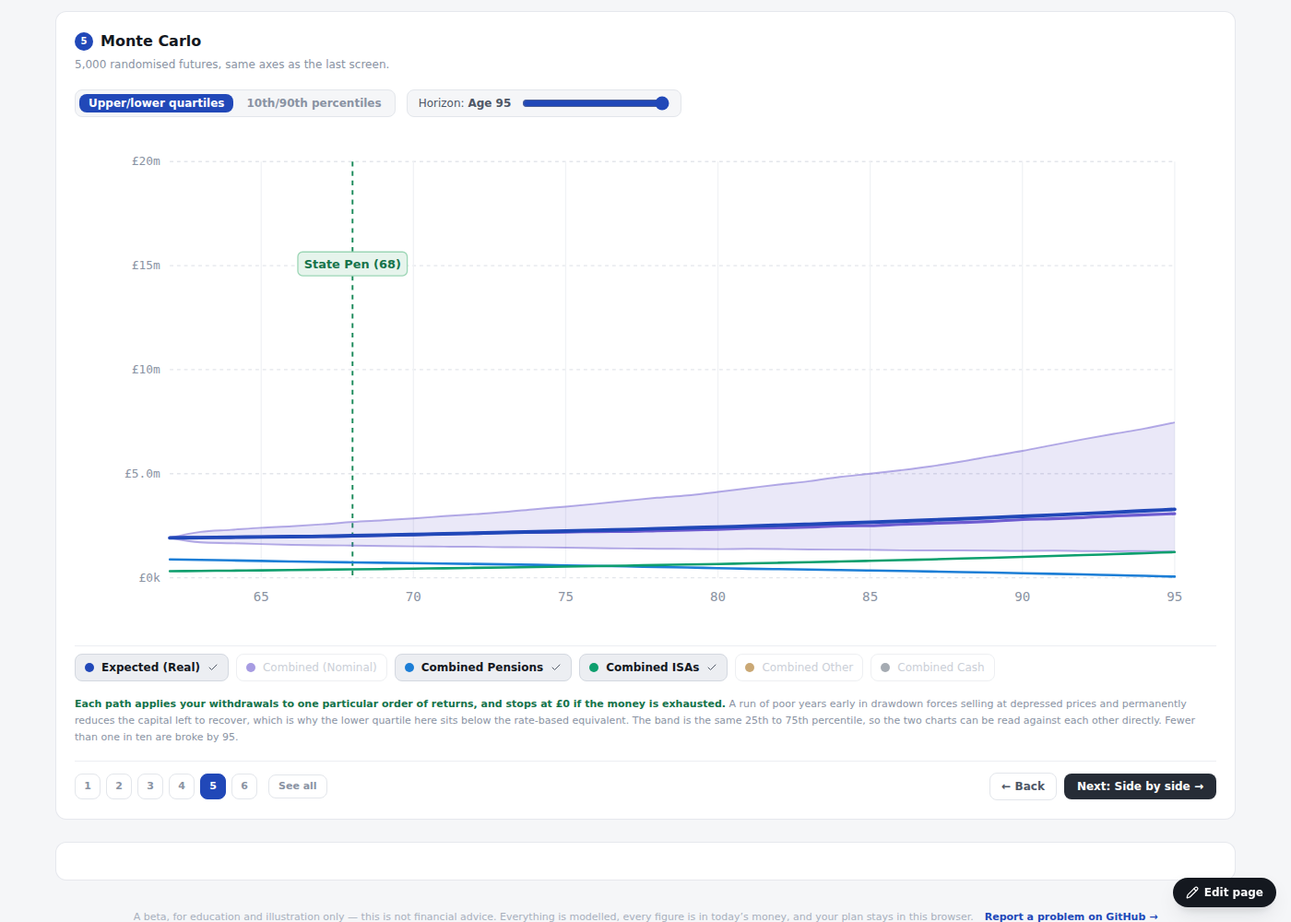
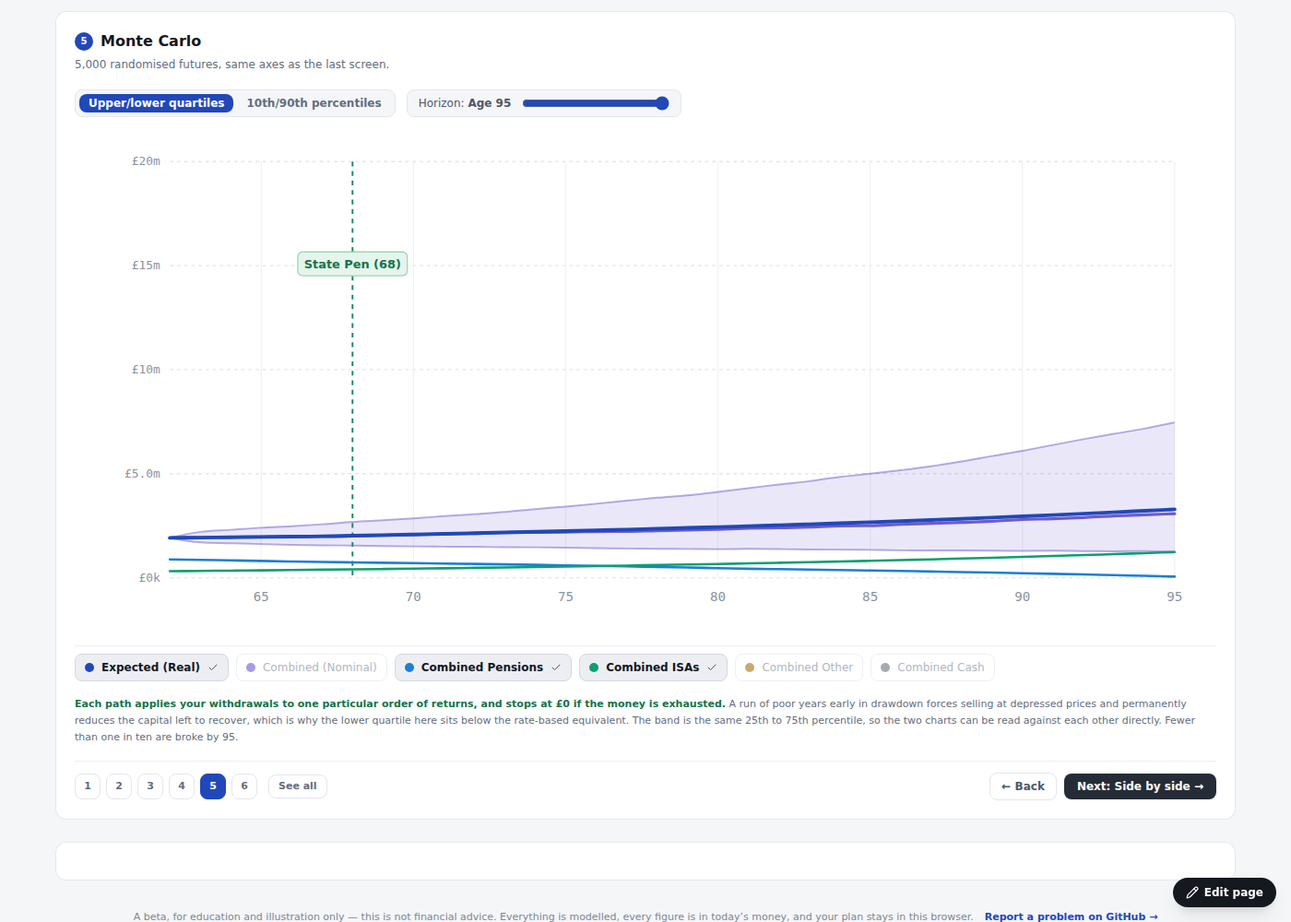
Regression-test the restyle, and fix the four things it caught
A restyle's characteristic failure is text the colour of what is behind it,
and none of the existing harnesses could see that: they assert behaviour -
a card applies, a band draws, a worker answers. restyle-regression-ui.cjs
walks all eight tabs in both themes at two widths and asserts four things
instead: every run of text clears 3:1 against the background actually
behind it (walking up the ancestors, since a transparent element inherits
what it sits on), nothing scrolls sideways at 390px, no tab errors, and
every tab still renders its own content so a panel that throws cannot pass
by being blank. It also drives the theme control itself.

It found 32 failures across four real bugs, all of them mine:

1. THE ACCENT WAS DOING TWO JOBS. `blue-600` has to be LIGHT in dark so a
   link reads on a dark ground - which left seventeen primary buttons
   showing white text on a light blue fill at 2.7:1. Fill and text are
   separate jobs, so they are separate tokens now: `accent`/`accent-hover`
   stay dark enough for white in either theme, and `blue-*` remains the
   text accent. Nine more white-on-light-fill combinations had the same
   shape - a selected state reaching for whichever hue was nearby - and
   selection now takes the same pair as every other selected control.

2. FOUR -950 SHADES WERE NOT INVERTED. Every one of them is used as text,
   so in dark they have to be the lightest tint; blue, indigo, purple and
[…]

diff --git a/src/App.jsx b/src/App.jsx
@@ -6752,7 +6752,7 @@ function WrapperStrategyTournament({ plan, ctx, seed, scenarios = [], activeScen
               const on = (entrantIds || []).includes(s.id);
               return (
                 <button key={s.id} type="button" onClick={() => toggleEntrant(s.id)}
-                  className={`px-2.5 py-1 rounded-lg text-[11px] font-semibold border transition-colors cursor-pointer ${on ? 'bg-indigo-600 text-white border-indigo-600' : 'bg-surface text-slate-700 border-slate-300 hover:bg-slate-100'}`}>
+                  className={`px-2.5 py-1 rounded-lg text-[11px] font-semibold border transition-colors cursor-pointer ${on ? 'bg-accent text-onaccent border-indigo-600' : 'bg-surface text-slate-700 border-slate-300 hover:bg-slate-100'}`}>
                   {on ? '✓ ' : '+ '}{s.name}
                 </button>
               );
@@ -8723,7 +8723,7 @@ ${t.rows.map(r => `<tr class="${r.recommended ? 'total' : ''}"><td>${r.amt > 0 ?
     <div className="flex items-start justify-between gap-3">
       <div>
         <h2 className="text-base font-semibold text-slate-900 flex items-center gap-2">
-          <span className="inline-flex items-center justify-center w-5 h-5 rounded-full bg-blue-600 text-white text-[10px] font-black shrink-0">{n}</span>
+          <span className="inline-flex items-center justify-center w-5 h-5 rounded-full bg-accent text-onaccent text-[10px] font-black shrink-0">{n}</span>
           {title}
         </h2>
         <span className="text-xs text-slate-500">{sub}</span>
@@ -8740,7 +8740,7 @@ ${t.rows.map(r => `<tr class="${r.recommended ? 'total' : ''}"><td>${r.amt > 0 ?
     <div className="flex items-center gap-1 bg-slate-50 border border-slate-200 px-1 py-1 rounded-lg text-xs">
       {['quartile', 'decile'].map(k => (
         <button key={k} type="button" onClick={() => setBandMode(k)} title={`Draw both charts at the ${BAND_QUANTILES[k].lowPct} and ${BAND_QUANTILES[k].highPct} percentile`}
-          className={`px-2.5 py-0.5 rounded-lg font-semibold transition-all cursor-pointer ${bandMode === k ? 'bg-blue-600 text-white' : 'text-slate-500 hover:text-slate-900'}`}>{BAND_QUANTILES[k].button}</button>
+          className={`px-2.5 py-0.5 rounded-lg font-semibold transition-all cursor-pointer ${bandMode === k ? 'bg-accent text-onaccent' : 'text-slate-500 hover:text-slate-900'}`}>{BAND_QUANTILES[k].button}</button>
       ))}
     </div>
   );
@@ -8828,7 +8828,7 @@ ${t.rows.map(r => `<tr class="${r.recommended ? 'total' : ''}"><td>${r.amt > 0 ?
       <div className="flex items-center gap-1.5">
         {ESTATE_STEPS.map(st => (
           <button key={st.n} type="button" onClick={() => { setEstateSeeAll(false); setEstateStep(st.n); }} title={st.name}
-            className={`px-2.5 h-7 rounded-lg text-[11px] font-bold transition-all cursor-pointer border ${!estateSeeAll && estateStep === st.n ? 'bg-purple-600 text-white border-purple-600' : 'bg-surface border-slate-200 text-slate-500 hover:text-slate-900 hover:border-slate-300'}`}>
+            className={`px-2.5 h-7 rounded-lg text-[11px] font-bold transition-all cursor-pointer border ${!estateSeeAll && estateStep === st.n ? 'bg-accent text-onaccent border-purple-600' : 'bg-surface border-slate-200 text-slate-500 hover:text-slate-900 hover:border-slate-300'}`}>
             <span className="sm:hidden">{st.n}</span><span className="hidden sm:inline">{st.n}. {st.name}</span>
           </button>
         ))}
@@ -8843,7 +8843,7 @@ ${t.rows.map(r => `<tr class="${r.recommended ? 'total' : ''}"><td>${r.amt > 0 ?
             className="px-3 py-1.5 rounded-lg text-xs font-semibold border border-slate-200 bg-surface text-slate-600 hover:text-slate-900 cursor-pointer disabled:opacity-40 disabled:cursor-not-allowed">&larr; Back</button>
           {n < 4 && (
             <button type="button" onClick={() => { setEstateStep(n + 1); scrollTo(document.querySelector('[data-estate-deck]')); }}
-              className="px-3.5 py-1.5 rounded-lg text-xs font-bold bg-purple-600 text-white hover:bg-purple-700 cursor-pointer">
+              className="px-3.5 py-1.5 rounded-lg text-xs font-bold bg-accent text-onaccent hover:bg-purple-700 cursor-pointer">
               Next: {ESTATE_STEPS[n].name} &rarr;
             </button>
           )}
@@ -8857,7 +8857,7 @@ ${t.rows.map(r => `<tr class="${r.recommended ? 'total' : ''}"><td>${r.amt > 0 ?
       <div className="flex items-center gap-1.5">
         {PROJECTION_SLIDES.map(s => (
           <button key={s.n} type="button" onClick={() => { setSeeAll(false); setSlide(s.n); }} title={s.name}
-            className={`w-7 h-7 rounded-lg text-[11px] font-bold transition-all cursor-pointer border ${!seeAll && slide === s.n ? 'bg-blue-600 text-white border-blue-600' : 'bg-surface border-slate-200 text-slate-500 hover:text-slate-900 hover:border-slate-300'}`}>{s.n}</button>
+            className={`w-7 h-7 rounded-lg text-[11px] font-bold transition-all cursor-pointer border ${!seeAll && slide === s.n ? 'bg-accent text-onaccent border-blue-600' : 'bg-surface border-slate-200 text-slate-500 hover:text-slate-900 hover:border-slate-300'}`}>{s.n}</button>
         ))}
         <button type="button" onClick={() => setSeeAll(!seeAll)}
           className={`ml-1.5 px-2.5 py-1 rounded-lg text-[11px] font-bold transition-all cursor-pointer border ${seeAll ? 'bg-slate-800 text-white border-slate-800' : 'bg-surface border-slate-200 text-slate-500 hover:text-slate-900'}`}>
@@ -8951,7 +8951,7 @@ ${t.rows.map(r => `<tr class="${r.recommended ? 'total' : ''}"><td>${r.amt > 0 ?
             const atCap = !run && selectedCompare.length >= MAX_COMPARE;
             return (
               <button key={sc.id} type="button" disabled={atCap} onClick={() => toggleCompare(sc.id)} title={atCap ? `Up to ${MAX_COMPARE} scenarios at once` : sc.name}
-                className={`px-2.5 py-1.5 rounded-lg text-xs font-medium flex items-center gap-2 transition-all border max-w-[14rem] ${run ? 'bg-slate-100 border-slate-300 text-slate-900 font-semibold cursor-pointer' : atCap ? 'bg-surface border-slate-200 text-slate-300 cursor-not-allowed' : 'bg-surface border-slate-200 text-slate-400 opacity-70 cursor-pointer hover:opacity-100'}`}>
+                className={`px-2.5 py-1.5 rounded-lg text-xs font-medium flex items-center gap-2 transition-all border max-w-[14rem] ${run ? 'bg-slate-100 border-slate-300 text-slate-900 font-semibold cursor-pointer' : atCap ? 'bg-surface border-slate-200 text-slate-400 cursor-not-allowed' : 'bg-surface border-slate-200 text-slate-400 opacity-70 cursor-pointer hover:opacity-100'}`}>
                 <span className="w-3.5 h-0 border-t-2 border-dashed shrink-0" style={{ borderColor: run ? run.tone : 'currentColor' }} />
                 <span className="truncate">{sc.name}</span>{run && <Check className="w-3 h-3 text-slate-600 shrink-0" />}
               </button>
@@ -8988,7 +8988,7 @@ ${t.rows.map(r => `<tr class="${r.recommended ? 'total' : ''}"><td>${r.amt > 0 ?
       <div className="flex flex-col sm:flex-row sm:items-center justify-between gap-3 pt-3 pb-3 border-y border-slate-100">
         <div><h4 className="text-sm font-semibold text-slate-800">Wrapper sandbox controls</h4><span className="text-[11px] text-slate-500">Adjust retirement ages and individual wrappers below, or reset back to your baseline plan inputs.</span></div>
         <div className="flex items-center gap-2 flex-wrap">
-          <button onClick={handleResetSandbox} disabled={!isSandboxModified} className={`px-3 py-1.5 rounded-lg text-xs font-semibold flex items-center gap-1.5 transition-all border ${isSandboxModified ? 'bg-slate-100 hover:bg-slate-200 text-slate-700 border-slate-300 cursor-pointer' : 'bg-slate-50 text-slate-300 border-slate-200 cursor-not-allowed'}`}><RotateCcw className="w-3.5 h-3.5" /> Reset Sandbox</button>
+          <button onClick={handleResetSandbox} disabled={!isSandboxModified} className={`px-3 py-1.5 rounded-lg text-xs font-semibold flex items-center gap-1.5 transition-all border ${isSandboxModified ? 'bg-slate-100 hover:bg-slate-200 text-slate-700 border-slate-300 cursor-pointer' : 'bg-slate-50 text-slate-400 border-slate-200 cursor-not-allowed'}`}><RotateCcw className="w-3.5 h-3.5" /> Reset Sandbox</button>
           <button onClick={handleApplySandboxToPlan} disabled={!isSandboxModified} className={`px-3.5 py-1.5 rounded-lg text-xs font-bold flex items-center gap-1.5 transition-all ${isSandboxModified ? 'bg-amber-700 hover:bg-amber-800 hover:to-amber-700 text-white cursor-pointer active:scale-95' : 'bg-slate-100 text-slate-400 border border-slate-200 cursor-not-allowed'}`}><Check className="w-3.5 h-3.5" /> Apply to Plan Inputs</button>
         </div>
       </div>
@@ -9136,7 +9136,7 @@ ${t.rows.map(r => `<tr class="${r.recommended ? 'total' : ''}"><td>${r.amt > 0 ?
           </div>
           <div className="flex items-center gap-2 flex-wrap ml-auto">
             <input type="text" placeholder="Scenario name (optional)" value={scenarioNameInput} onChange={(e) => setScenarioNameInput(e.target.value)} onKeyDown={(e) => { if (e.key === 'Enter') handleSaveScenario(); }} className="p-1.5 px-3 bg-slate-50 border border-slate-300 rounded-lg text-xs font-medium text-slate-900 placeholder:text-slate-400 focus:bg-surface focus:outline-none focus:ring-2 focus:ring-blue-500 w-48 sm:w-56" />
-            <button onClick={handleSaveScenario} className="px-3 py-1.5 bg-blue-600 hover:bg-blue-700 text-white rounded-lg text-xs font-bold flex items-center gap-1.5 transition-all cursor-pointer active:scale-95"><Save className="w-3.5 h-3.5" /> Save</button>
+            <button onClick={handleSaveScenario} className="px-3 py-1.5 bg-accent hover:bg-accent-hover text-onaccent rounded-lg text-xs font-bold flex items-center gap-1.5 transition-all cursor-pointer active:scale-95"><Save className="w-3.5 h-3.5" /> Save</button>
             <button onClick={handleSaveAsNewScenario} className="px-3 py-1.5 bg-slate-100 hover:bg-slate-200 text-slate-700 rounded-lg text-xs font-semibold flex items-center gap-1.5 transition-all border border-slate-200 cursor-pointer"><Plus className="w-3.5 h-3.5 text-slate-600" /> Save as new scenario</button>
             {saveSuccessMsg && <span className="text-xs font-bold text-emerald-700 flex items-center gap-1 bg-emerald-50 px-2 py-1 rounded-lg border border-emerald-200"><Check className="w-3 h-3 text-emerald-600" /> {saveSuccessMsg}</span>}
           </div>
@@ -9164,7 +9164,7 @@ ${t.rows.map(r => `<tr class="${r.recommended ? 'total' : ''}"><td>${r.amt > 0 ?
                 </p>
                 <div className="flex flex-wrap items-center gap-2 pt-1">
                   <button type="button" onClick={() => setActiveTab('inputs')}
-                    className="px-4 py-2 bg-blue-600 hover:bg-blue-700 text-white rounded-lg text-xs font-bold flex items-center gap-1.5 transition-all cursor-pointer active:scale-95">
+                    className="px-4 py-2 bg-accent hover:bg-accent-hover text-onaccent rounded-lg text-xs font-bold flex items-center gap-1.5 transition-all cursor-pointer active:scale-95">
                     <Sliders className="w-3.5 h-3.5" /> {planStarted ? 'Back to Plan Inputs' : 'Start with Plan Inputs'}
                   </button>
                   <button type="button" onClick={() => setActiveTab('docs')}
@@ -9304,7 +9304,7 @@ ${t.rows.map(r => `<tr class="${r.recommended ? 'total' : ''}"><td>${r.amt > 0 ?
               <div className="pt-3 border-t border-slate-100">
                 <div className="flex flex-wrap items-center justify-between gap-2 mb-2">
                   <span className="text-sm font-semibold text-slate-700">{isCouple ? 'Joint net living spend' : 'Net living spend'} by age (optional)</span>
-                  <button onClick={addSpendBand} className="px-2.5 py-1 bg-blue-600 hover:bg-blue-700 text-white rounded-lg text-xs font-bold flex items-center gap-1 cursor-pointer"><Plus className="w-3.5 h-3.5" /> Add band</button>
+                  <button onClick={addSpendBand} className="px-2.5 py-1 bg-accent hover:bg-accent-hover text-onaccent rounded-lg text-xs font-bold flex items-center gap-1 cursor-pointer"><Plus className="w-3.5 h-3.5" /> Add band</button>
                 </div>
                 <p className="text-[11px] text-slate-500 mb-2 max-w-3xl">
                   Set what a stretch of years actually costs, in today's money, instead of one figure for the whole
@@ -9487,7 +9487,7 @@ ${t.rows.map(r => `<tr class="${r.recommended ? 'total' : ''}"><td>${r.amt > 0 ?
                   </ul>
                   <span className="text-[11px] text-slate-500 mt-1 block">With no relevant earnings the pension limit is {formatGBP(P.pensionNoEarningsLimit)}/yr.</span>
                 </div>
-                <button onClick={addOtherIncome} className="px-2.5 py-1 bg-blue-600 hover:bg-blue-700 text-white rounded-lg text-xs font-bold flex items-center gap-1 cursor-pointer"><Plus className="w-3.5 h-3.5" /> Add stream</button>
+                <button onClick={addOtherIncome} className="px-2.5 py-1 bg-accent hover:bg-accent-hover text-onaccent rounded-lg text-xs font-bold flex items-center gap-1 cursor-pointer"><Plus className="w-3.5 h-3.5" /> Add stream</button>
               </div>
               {(plan?.otherIncomes || []).length === 0 ? (
                 <div className="text-xs text-slate-400 p-3 bg-slate-50 border border-slate-200 rounded-lg">No additional income streams registered.</div>
@@ -9681,11 +9681,11 @@ ${t.rows.map(r => `<tr class="${r.recommended ? 'total' : ''}"><td>${r.amt > 0 ?
                 </div>
                 <div className="shrink-0">
                   <button type="button" onClick={handleFindBestPolicy} disabled={isPolicySearching || !policySweepReady}
-                    className="px-3.5 py-2 bg-blue-600 hover:bg-blue-700 text-white rounded-lg text-xs font-bold flex items-center gap-2 transition-all cursor-pointer active:scale-95 disabled:opacity-50 disabled:cursor-not-allowed">
+                    className="px-3.5 py-2 bg-accent hover:bg-accent-hover text-onaccent rounded-lg text-xs font-bold flex items-center gap-2 transition-all cursor-pointer active:scale-95 disabled:opacity-50 disabled:cursor-not-allowed">
                     <Zap className="w-3.5 h-3.5 shrink-0 text-amber-300 fill-amber-300" />
                     {isPolicySearching ? 'Searching…' : (
                       <span className="text-left leading-tight">Auto-pick best policy
-                        <span className="block text-[10px] font-semibold text-blue-100/90">based on my priorities</span>
+                        <span className="block text-[10px] font-semibold text-onaccent/80">based on my priorities</span>
                       </span>
                     )}
                   </button>
@@ -9747,10 +9747,10 @@ ${t.rows.map(r => `<tr class="${r.recommended ? 'total' : ''}"><td>${r.amt > 0 ?
                           onPointerMove={movePriorityDrag}
                           onPointerUp={endPriorityDrag}
                           onPointerCancel={cancelPriorityDrag}
-                          className="shrink-0 mt-0.5 -m-1 p-1 touch-none cursor-grab active:cursor-grabbing text-slate-300 hover:text-slate-500">
+                          className="shrink-0 mt-0.5 -m-1 p-1 touch-none cursor-grab active:cursor-grabbing text-slate-400 hover:text-slate-500">
                           <GripVertical className="w-3.5 h-3.5" />
                         </span>
-                        <span className={`shrink-0 w-5 h-5 rounded-full grid place-items-center font-bold text-[10px] ${i === 0 ? 'bg-blue-600 text-white' : 'bg-slate-200 text-slate-600'}`}>{i + 1}</span>
+                        <span className={`shrink-0 w-5 h-5 rounded-full grid place-items-center font-bold text-[10px] ${i === 0 ? 'bg-accent text-onaccent' : 'bg-slate-200 text-slate-600'}`}>{i + 1}</span>
                         <div className="min-w-0 flex-1">
                           <div className={`font-bold ${i === 0 ? 'text-blue-900' : 'text-slate-700'}`}>{m.label}</div>
                           <div className="text-[10px] text-slate-500 leading-snug">{m.why}</div>
@@ -9940,7 +9940,7 @@ ${t.rows.map(r => `<tr class="${r.recommended ? 'total' : ''}"><td>${r.amt > 0 ?
                             )}
                           </div>
                           <button type="button" onClick={() => chooseTradeoff(card)} disabled={active}
-                            className={`shrink-0 px-2.5 py-1.5 rounded-lg text-[11px] font-bold transition-all ${active ? 'bg-blue-600 text-white cursor-default' : 'bg-slate-100 text-blue-700 hover:bg-blue-100 cursor-pointer active:scale-95'}`}>
+                            className={`shrink-0 px-2.5 py-1.5 rounded-lg text-[11px] font-bold transition-all ${active ? 'bg-accent text-onaccent cursor-default' : 'bg-slate-100 text-blue-700 hover:bg-blue-100 cursor-pointer active:scale-95'}`}>
                             {active ? 'Applied' : 'Use this instead'}
                           </button>
                         </div>
@@ -10070,7 +10070,7 @@ ${t.rows.map(r => `<tr class="${r.recommended ? 'total' : ''}"><td>${r.amt > 0 ?
                   <h3 className="text-sm font-semibold text-slate-900">Asset allocations, return matrix &amp; volatilities (σ)</h3>
                   <span className="text-[11px] text-slate-500">Expected real return is treated as the median (geometric) annual rate; Monte Carlo paths are log-normal around it with the stated σ, one market factor for all wrappers. The lucky and unlucky columns are calculated from the expected rate, σ, forecast uncertainty and your {ctx.totalYears}-year horizon, so they are not editable.</span>
                 </div>
-                <button onClick={() => setIsEditingRisk(!isEditingRisk)} className={`px-3 py-1.5 rounded-lg text-xs font-semibold flex items-center gap-1.5 transition-all cursor-pointer border ${isEditingRisk ? 'bg-blue-600 text-white border-blue-600' : 'bg-slate-100 hover:bg-slate-200 text-slate-700 border-slate-200'}`}><Pencil className="w-3.5 h-3.5" />{isEditingRisk ? 'Done Editing' : 'Edit Matrix'}</button>
+                <button onClick={() => setIsEditingRisk(!isEditingRisk)} className={`px-3 py-1.5 rounded-lg text-xs font-semibold flex items-center gap-1.5 transition-all cursor-pointer border ${isEditingRisk ? 'bg-accent text-onaccent border-blue-600' : 'bg-slate-100 hover:bg-slate-200 text-slate-700 border-slate-200'}`}><Pencil className="w-3.5 h-3.5" />{isEditingRisk ? 'Done Editing' : 'Edit Matrix'}</button>
               </div>
 
               {/*
@@ -10198,7 +10198,7 @@ ${t.rows.map(r => `<tr class="${r.recommended ? 'total' : ''}"><td>${r.amt > 0 ?
                     <button type="button" onClick={handleCancelMC} className="px-3 py-1.5 rounded-lg text-xs font-bold border border-slate-300 bg-slate-100 hover:bg-slate-200 text-slate-700 cursor-pointer">Stop</button>
                   )}
                   <button onClick={handleRunAll} disabled={mcBusy}
-                    className="px-4 py-2 bg-blue-600 hover:bg-blue-700 text-white rounded-lg text-xs font-bold flex items-center gap-1.5 transition-all cursor-pointer active:scale-95 disabled:opacity-60">
+                    className="px-4 py-2 bg-accent hover:bg-accent-hover text-onaccent rounded-lg text-xs font-bold flex items-center gap-1.5 transition-all cursor-pointer active:scale-95 disabled:opacity-60">
                     <Zap className="w-3.5 h-3.5 text-amber-300 fill-amber-300" />
                     {isSimulating && !isOptimizing ? 'Testing…' : isOptimizing ? 'Solving…' : tournament.isEvaluating ? 'Comparing…' : '⚡ Run the projection'}
                   </button>
@@ -10223,7 +10223,7 @@ ${t.rows.map(r => `<tr class="${r.recommended ? 'total' : ''}"><td>${r.amt > 0 ?
                 <div className="bg-surface border border-slate-200/90 rounded-xl p-4 flex flex-wrap items-center gap-2">
                   <span className="text-xs text-slate-500 font-semibold">Whose money:</span>
                   {['Combined', 'Myself', 'Partner'].map(pv => (
-                    <button key={pv} onClick={() => setPlan(prev => ({ ...prev, activeProfileView: pv }))} className={`px-3 py-1 rounded-lg text-xs font-bold transition-all cursor-pointer ${plan?.activeProfileView === pv ? 'bg-blue-600 text-white' : 'bg-slate-100 text-slate-600 hover:text-slate-900'}`}>{pv}</button>
+                    <button key={pv} onClick={() => setPlan(prev => ({ ...prev, activeProfileView: pv }))} className={`px-3 py-1 rounded-lg text-xs font-bold transition-all cursor-pointer ${plan?.activeProfileView === pv ? 'bg-accent text-onaccent' : 'bg-slate-100 text-slate-600 hover:text-slate-900'}`}>{pv}</button>
                   ))}
                 </div>
               )}
@@ -10466,7 +10466,7 @@ ${t.rows.map(r => `<tr class="${r.recommended ? 'total' : ''}"><td>${r.amt > 0 ?
                   const atCap = !run && selectedCompare.length >= MAX_COMPARE;
                   return (
                     <button key={s.id} type="button" disabled={atCap} onClick={() => toggleCompare(s.id)} title={atCap ? `Up to ${MAX_COMPARE} at once` : s.name}
-                      className={`px-2.5 py-1.5 rounded-lg text-xs font-medium flex items-center gap-2 transition-all border max-w-[16rem] ${run ? 'bg-slate-100 border-slate-300 text-slate-900 font-semibold cursor-pointer' : atCap ? 'bg-surface border-slate-200 text-slate-300 cursor-not-allowed' : 'bg-surface border-slate-200 text-slate-500 opacity-70 cursor-pointer hover:opacity-100'}`}>
+                      className={`px-2.5 py-1.5 rounded-lg text-xs font-medium flex items-center gap-2 transition-all border max-w-[16rem] ${run ? 'bg-slate-100 border-slate-300 text-slate-900 font-semibold cursor-pointer' : atCap ? 'bg-surface border-slate-200 text-slate-400 cursor-not-allowed' : 'bg-surface border-slate-200 text-slate-500 opacity-70 cursor-pointer hover:opacity-100'}`}>
                       <span className="w-2.5 h-2.5 rounded-full shrink-0 border" style={{ backgroundColor: run ? run.tone : 'transparent', borderColor: run ? run.tone : 'currentColor' }} />
                       <span className="truncate">{s.name}</span>{run && <Check className="w-3 h-3 text-slate-600 shrink-0" />}
                     </button>
@@ -10514,7 +10514,7 @@ ${t.rows.map(r => `<tr class="${r.recommended ? 'total' : ''}"><td>${r.amt > 0 ?
                               <td className="p-2 text-slate-700">{r.retireAge}</td>
                               <td className="p-2 text-slate-700">{formatGBP(r.retirePot)}</td>
                               <td className="p-2 font-bold text-blue-700">{formatGBP(r.terminal)}</td>
-                              <td className={`p-2 font-semibold ${r.delta === null ? 'text-slate-300' : r.delta > 0 ? 'text-emerald-700' : r.delta < 0 ? 'text-rose-700' : 'text-slate-500'}`}>
+                              <td className={`p-2 font-semibold ${r.delta === null ? 'text-slate-400' : r.delta > 0 ? 'text-emerald-700' : r.delta < 0 ? 'text-rose-700' : 'text-slate-500'}`}>
                                 {r.delta === null ? '—' : `${r.delta > 0 ? '+' : r.delta < 0 ? '−' : ''}${formatGBP(Math.abs(r.delta))}`}
                               </td>
                               <td className="p-2 text-slate-600">{formatGBP(r.lifetimeTax)}</td>
@@ -10541,7 +10541,7 @@ ${t.rows.map(r => `<tr class="${r.recommended ? 'total' : ''}"><td>${r.amt > 0 ?
                   <div className="bg-surface border border-slate-200/90 p-4 rounded-xl flex flex-wrap items-center justify-between gap-3">
                     <span className="text-[11px] text-slate-500">Changed something? Run it again and the five steps come back with every figure refreshed.</span>
                     <button type="button" onClick={() => handleRunAll({ cascade: true })} disabled={mcBusy}
-                      className="px-4 py-2 bg-blue-600 hover:bg-blue-700 text-white rounded-lg text-xs font-bold flex items-center gap-1.5 transition-all cursor-pointer active:scale-95 disabled:opacity-60">
+                      className="px-4 py-2 bg-accent hover:bg-accent-hover text-onaccent rounded-lg text-xs font-bold flex items-center gap-1.5 transition-all cursor-pointer active:scale-95 disabled:opacity-60">
                       <RotateCcw className="w-3.5 h-3.5" /> {mcBusy ? 'Running…' : 'Rerun projections'}
                     </button>
                   </div>
@@ -10749,7 +10749,7 @@ ${t.rows.map(r => `<tr class="${r.recommended ? 'total' : ''}"><td>${r.amt > 0 ?
                                           <tr key={r.source}>
                                             <td className="py-1 pr-2 text-slate-700">{r.source}</td>
                                             <td className="py-1 pr-2 text-right font-mono text-slate-500">{formatGBP(r.balance)}</td>
-                                            <td className={`py-1 pr-2 text-right font-mono font-bold ${r.taken > 0 ? 'text-purple-800' : 'text-slate-300'}`}>{r.taken > 0 ? formatGBP(r.taken) : '—'}</td>
+                                            <td className={`py-1 pr-2 text-right font-mono font-bold ${r.taken > 0 ? 'text-purple-800' : 'text-slate-400'}`}>{r.taken > 0 ? formatGBP(r.taken) : '—'}</td>
                                             <td className="py-1 text-right font-mono text-slate-600">{formatGBP(r.left)}</td>
                                           </tr>
                                         ))}
@@ -10863,7 +10863,7 @@ ${t.rows.map(r => `<tr class="${r.recommended ? 'total' : ''}"><td>${r.amt > 0 ?
                         <button type="button" onClick={() => toggleEstateCard('workings')} aria-expanded={estateOpen('workings')}
                           data-fold-toggle="workings" className="w-full text-left cursor-pointer bg-transparent border-0 p-0 m-0 block">
                           <h3 className="text-sm font-semibold text-slate-900 flex items-center gap-2">
-                            <span className="shrink-0 w-4 h-4 rounded-full bg-purple-600 text-white text-[9px] font-bold flex items-center justify-center">=</span>
+                            <span className="shrink-0 w-4 h-4 rounded-full bg-accent text-onaccent text-[9px] font-bold flex items-center justify-center">=</span>
                             <span className="flex-1">What that comes to, if you die at {estatePlan.deathAge}</span>
                             {/* the answer itself stays on the folded header: it is the one figure worth
                                 keeping in view, and hiding it would make folding cost something */}
@@ -10886,7 +10886,7 @@ ${t.rows.map(r => `<tr class="${r.recommended ? 'total' : ''}"><td>${r.amt > 0 ?
                                   <td className={`py-1.5 pr-3 font-sans ${r.kind === 'total' ? 'text-slate-900' : r.kind === 'note' ? 'text-slate-500' : 'text-slate-700'}`}>
                                     {r.label}{r.note && <span className="block text-[10px] text-slate-400">{r.note}</span>}
                                   </td>
-                                  <td className={`py-1.5 pr-3 text-right ${r.kind === 'note' ? 'text-slate-300' : r.amount < 0 ? 'text-emerald-700' : 'text-slate-700'}`}>
+                                  <td className={`py-1.5 pr-3 text-right ${r.kind === 'note' ? 'text-slate-400' : r.amount < 0 ? 'text-emerald-700' : 'text-slate-700'}`}>
                                     {r.kind === 'note' ? '' : (r.amount < 0 ? '−' : '') + formatGBP(Math.abs(r.amount))}
                                   </td>
                                   <td className={`py-1.5 text-right ${r.kind === 'total' ? 'text-purple-700 font-bold' : 'text-slate-400'}`}>
@@ -11156,7 +11156,7 @@ ${t.rows.map(r => `<tr class="${r.recommended ? 'total' : ''}"><td>${r.amt > 0 ?
                     */}
                   <div className="flex flex-wrap items-center gap-3 pt-1">
                     <button type="button" onClick={openEstateReport} data-estate-report
-                      className="px-3 py-1.5 bg-emerald-600 hover:bg-emerald-700 text-white rounded-lg text-xs font-bold flex items-center gap-1.5 cursor-pointer">
+                      className="px-3 py-1.5 bg-emerald-600 hover:bg-emerald-700 text-white dark:text-emerald-50 rounded-lg text-xs font-bold flex items-center gap-1.5 cursor-pointer">
                       <Download className="w-3.5 h-3.5" /> Open as a report
                     </button>
                     <span className="text-[10px] text-slate-400">{estatePlan.runs} projections were run to find this. The report opens in a new tab as a single page you can print, save or send on.</span>
@@ -11857,7 +11857,7 @@ ${t.rows.map(r => `<tr class="${r.recommended ? 'total' : ''}"><td>${r.amt > 0 ?
                                 {r.label}
                                 {r.note && <span className="block text-[10px] text-slate-400">{r.note}</span>}
                               </td>
-                              <td className={`py-1.5 pr-3 text-right ${r.kind === 'note' ? 'text-slate-300' : r.amount < 0 ? 'text-emerald-700' : r.kind === 'total' || r.kind === 'rate' ? 'text-slate-900' : 'text-slate-700'}`}>
+                              <td className={`py-1.5 pr-3 text-right ${r.kind === 'note' ? 'text-slate-400' : r.amount < 0 ? 'text-emerald-700' : r.kind === 'total' || r.kind === 'rate' ? 'text-slate-900' : 'text-slate-700'}`}>
                                 {r.kind === 'note' ? '' : (r.amount < 0 ? '−' : '') + formatGBP(Math.abs(r.amount))}
                               </td>
                               <td className={`py-1.5 text-right ${r.kind === 'total' ? 'text-purple-700 font-bold' : 'text-slate-400'}`}>
@@ -11922,9 +11922,9 @@ ${t.rows.map(r => `<tr class="${r.recommended ? 'total' : ''}"><td>${r.amt > 0 ?
                 {HISTORICAL_PRESETS.map(p => {
                   const isValid = p.year <= maxHistoricalStartYear;
                   return (
-                    <button key={p.year} onClick={() => isValid && setSelectedHistoricalYear(p.year)} disabled={!isValid} className={`p-2.5 rounded-lg border text-left transition-all ${!isValid ? 'bg-slate-50 text-slate-300 border-slate-200/50 cursor-not-allowed opacity-50' : activeHistoricalStartYear === p.year ? 'bg-indigo-600 text-white border-indigo-600 cursor-pointer' : 'bg-slate-50 hover:bg-slate-100 text-slate-700 border-slate-200 cursor-pointer'}`}>
+                    <button key={p.year} onClick={() => isValid && setSelectedHistoricalYear(p.year)} disabled={!isValid} className={`p-2.5 rounded-lg border text-left transition-all ${!isValid ? 'bg-slate-50 text-slate-400 border-slate-200/50 cursor-not-allowed opacity-50' : activeHistoricalStartYear === p.year ? 'bg-accent text-onaccent border-accent cursor-pointer' : 'bg-slate-50 hover:bg-slate-100 text-slate-700 border-slate-200 cursor-pointer'}`}>
                       <div className="flex items-center justify-between"><span className="font-bold text-xs">{p.year}</span>{!isValid && <span className="text-[9px] text-slate-400 font-sans">Over {E.HISTORICAL_LAST_YEAR}</span>}</div>
-                      <div className={`text-[10px] leading-tight truncate mt-0.5 ${!isValid ? 'text-slate-300' : activeHistoricalStartYear === p.year ? 'text-indigo-100' : 'text-slate-500'}`}>{p.label.split('(')[0]}</div>
+                      <div className={`text-[10px] leading-tight truncate mt-0.5 ${!isValid ? 'text-slate-400' : activeHistoricalStartYear === p.year ? 'text-onaccent/80' : 'text-slate-500'}`}>{p.label.split('(')[0]}</div>
                     </button>
                   );
                 })}

diff --git a/src/Simple.jsx b/src/Simple.jsx
@@ -443,7 +443,7 @@ export default function Simple() {
             className={`${subCls} w-full min-w-0 text-right tabular-nums tabular-nums px-1 ${pctKey ? 'rounded-r-none border-r-0' : ''}`} />
           {pctKey && (
             <button type="button" onClick={() => set(pctKey, !s[pctKey])} title={isPct ? 'a % of salary' : 'pounds a year'}
-              className={`shrink-0 px-1 rounded-md rounded-l-none border text-[10px] font-bold cursor-pointer ${isPct ? 'bg-blue-600 text-white border-blue-600' : 'bg-slate-50 text-slate-500 border-slate-200 hover:text-slate-900'}`}>
+              className={`shrink-0 px-1 rounded-md rounded-l-none border text-[10px] font-bold cursor-pointer ${isPct ? 'bg-accent text-onaccent border-blue-600' : 'bg-slate-50 text-slate-500 border-slate-200 hover:text-slate-900'}`}>
               {isPct ? '%' : '\u00a3'}
             </button>
           )}
@@ -523,7 +523,7 @@ export default function Simple() {
       <div className="bg-slate-50 border border-slate-200/80 rounded-lg p-3 min-w-0">
         <span className="text-[11px] text-slate-500 block mb-0.5 leading-snug">{label}</span>
         {pending
-          ? <span className="text-2xl font-black tabular-nums text-slate-300 flex items-center gap-2"><Loader2 className="w-4 h-4 animate-spin" />&mdash;</span>
+          ? <span className="text-2xl font-black tabular-nums text-slate-400 flex items-center gap-2"><Loader2 className="w-4 h-4 animate-spin" />&mdash;</span>
           : <span className={`${size} font-black tabular-nums tabular-nums block truncate ${tone}`} title={String(value)}>{value}</span>}
         <span className="text-[11px] text-slate-500 block mt-1 leading-snug">{sub}</span>
       </div>
@@ -560,7 +560,7 @@ export default function Simple() {
         <div className="flex flex-wrap items-center gap-1.5">
           {scenarios.map(rec => (
             <span key={rec.id}
-              className={`group inline-flex items-center rounded-lg border text-xs font-bold transition-colors ${activeScenario === rec.id ? 'bg-blue-600 text-white border-blue-600' : 'bg-surface border-slate-200 text-slate-600 hover:border-blue-300 hover:text-blue-800'}`}>
+              className={`group inline-flex items-center rounded-lg border text-xs font-bold transition-colors ${activeScenario === rec.id ? 'bg-accent text-onaccent border-blue-600' : 'bg-surface border-slate-200 text-slate-600 hover:border-blue-300 hover:text-blue-800'}`}>
               <button type="button" onClick={() => loadScenario(rec)} title={`Scenario ${rec.n}: ${GBP(num(rec.plan.spend, 0))} a year, stopping at ${num(rec.plan.retireSelf, 0)}`}
                 className="px-2.5 py-1 cursor-pointer">{rec.n}</button>
               <button type="button" onClick={() => dropScenario(rec.id)} aria-label={`Remove scenario ${rec.n}`}
@@ -689,7 +689,7 @@ export default function Simple() {
 
         {!ready.ready ? (
           <div className="p-8 text-center">
-            <TrendingUp className="w-8 h-8 text-slate-300 mx-auto mb-3" />
+            <TrendingUp className="w-8 h-8 text-slate-400 mx-auto mb-3" />
             <p className="text-sm text-slate-500">Still need {ready.missing.join(', ')}.</p>
             <p className="text-[11px] text-slate-400 mt-1.5">The answer appears as soon as those are in. There is no button to press.</p>
           </div>
@@ -708,7 +708,7 @@ export default function Simple() {
                   <div className="flex items-center gap-1 bg-slate-50 border border-slate-200 p-1 rounded-lg w-fit text-xs">
                     {Object.entries(BAND_QUANTILES).map(([k, v]) => (
                       <button key={k} type="button" onClick={() => setBandMode(k)} title={`Draw both charts at the ${v.lowPct} and ${v.highPct}`}
-                        className={`px-2.5 py-0.5 rounded-lg font-semibold transition-all cursor-pointer ${bandMode === k ? 'bg-blue-600 text-white' : 'text-slate-500 hover:text-slate-900'}`}>{v.button}</button>
+                        className={`px-2.5 py-0.5 rounded-lg font-semibold transition-all cursor-pointer ${bandMode === k ? 'bg-accent text-onaccent' : 'text-slate-500 hover:text-slate-900'}`}>{v.button}</button>
                     ))}
                   </div>
                 </div>

diff --git a/tailwind.config.js b/tailwind.config.js
@@ -23,6 +23,15 @@ export default {
     colors: {
       slate:   { 50:'rgb(var(--slate-50)/<alpha-value>)', 100:'rgb(var(--slate-100)/<alpha-value>)', 200:'rgb(var(--slate-200)/<alpha-value>)', 300:'rgb(var(--slate-300)/<alpha-value>)', 400:'rgb(var(--slate-400)/<alpha-value>)', 500:'rgb(var(--slate-500)/<alpha-value>)', 600:'rgb(var(--slate-600)/<alpha-value>)', 700:'rgb(var(--slate-700)/<alpha-value>)', 800:'rgb(var(--slate-800)/<alpha-value>)', 900:'rgb(var(--slate-900)/<alpha-value>)' },
       surface: { DEFAULT: 'rgb(var(--surface)/<alpha-value>)' },
+      /*
+       * The accent as a FILL, and the text that belongs on it.
+       *
+       * `blue-600` cannot do both jobs: in dark it has to be LIGHT so a link reads against a dark
+       * ground, and a button filled with that same light blue then carries white text at 2.7:1. So the
+       * fill is its own token, dark enough for white in either theme, and `blue-*` stays the text accent.
+       */
+      accent: { DEFAULT: 'rgb(var(--accent)/<alpha-value>)', hover: 'rgb(var(--accent-hover)/<alpha-value>)' },
+      onaccent: { DEFAULT: 'rgb(var(--on-accent)/<alpha-value>)' },
       blue:    { 50:'rgb(var(--blue-50)/<alpha-value>)', 100:'rgb(var(--blue-100)/<alpha-value>)', 200:'rgb(var(--blue-200)/<alpha-value>)', 500:'rgb(var(--blue-500)/<alpha-value>)', 600:'rgb(var(--blue-600)/<alpha-value>)', 700:'rgb(var(--blue-700)/<alpha-value>)', 800:'rgb(var(--blue-800)/<alpha-value>)', 950:'rgb(var(--blue-950)/<alpha-value>)', 300:'rgb(var(--blue-300)/<alpha-value>)', 400:'rgb(var(--blue-400)/<alpha-value>)', 900:'rgb(var(--blue-900)/<alpha-value>)'},
       indigo:  { 50:'rgb(var(--indigo-50)/<alpha-value>)', 100:'rgb(var(--indigo-100)/<alpha-value>)', 200:'rgb(var(--indigo-200)/<alpha-value>)', 500:'rgb(var(--indigo-500)/<alpha-value>)', 600:'rgb(var(--indigo-600)/<alpha-value>)', 700:'rgb(var(--indigo-700)/<alpha-value>)', 800:'rgb(var(--indigo-800)/<alpha-value>)', 900:'rgb(var(--indigo-900)/<alpha-value>)', 950:'rgb(var(--indigo-950)/<alpha-value>)', 300:'rgb(var(--indigo-300)/<alpha-value>)'},
       emerald: { 50:'rgb(var(--emerald-50)/<alpha-value>)', 100:'rgb(var(--emerald-100)/<alpha-value>)', 200:'rgb(var(--emerald-200)/<alpha-value>)', 300:'rgb(var(--emerald-300)/<alpha-value>)', 600:'rgb(var(--emerald-600)/<alpha-value>)', 700:'rgb(var(--emerald-700)/<alpha-value>)', 800:'rgb(var(--emerald-800)/<alpha-value>)', 900:'rgb(var(--emerald-900)/<alpha-value>)', 950:'rgb(var(--emerald-950)/<alpha-value>)'},

diff --git a/index.html b/index.html
@@ -60,8 +60,8 @@
         --slate-100: 236 238 242;
         --slate-200: 227 230 235;
         --slate-300: 211 216 224;
-        --slate-400: 168 176 189;
-        --slate-500: 138 147 163;
+        --slate-400: 124 134 149;
+        --slate-500: 100 109 125;
         --slate-600: 78 87 102;
         --slate-700: 58 66 79;
         --slate-800: 38 44 54;
@@ -139,6 +139,9 @@
         --purple-800: 74 58 151;
         --purple-900: 59 46 120;
         --purple-950: 36 28 74;
+        --accent: 33 72 184;
+        --accent-hover: 22 58 143;
+        --on-accent: 255 255 255;
       }
       html[data-theme="dark"] {
         /*
@@ -151,9 +154,9 @@
         --slate-100: 23 27 33;
         --slate-200: 38 44 53;
         --slate-300: 51 58 69;
-        --slate-400: 74 83 97;
-        --slate-500: 107 116 128;
-        --slate-600: 169 178 191;
+        --slate-400: 118 128 142;
+        --slate-500: 145 155 169;
+        --slate-600: 178 187 199;
         --slate-700: 197 205 216;
         --slate-800: 214 221 230;
         --slate-900: 231 235 240;
@@ -165,7 +168,7 @@
         --blue-600: 123 156 242;
         --blue-700: 169 191 247;
         --blue-800: 194 210 250;
-        --blue-950: 14 24 50;
+        --blue-950: 219 230 253;
         --indigo-50: 30 27 58;
         --indigo-100: 39 34 82;
         --indigo-200: 51 44 107;
@@ -174,7 +177,7 @@
         --indigo-700: 179 166 245;
         --indigo-800: 198 188 248;
         --indigo-900: 214 207 251;
-        --indigo-950: 20 16 42;
+        --indigo-950: 224 218 253;
         --emerald-50: 20 48 42;
         --emerald-100: 23 69 58;
         --emerald-200: 30 107 84;
@@ -190,7 +193,7 @@
         --rose-600: 240 122 108;
         --rose-700: 245 154 142;
         --rose-800: 248 181 172;
-        --rose-950: 42 21 19;
+        --rose-950: 252 214 209;
         --amber-50: 58 44 19;
         --amber-100: 78 59 24;
         --amber-200: 107 82 32;
@@ -224,7 +227,10 @@
         --purple-600: 156 140 240;
         --purple-800: 198 188 248;
         --purple-900: 214 207 251;
-        --purple-950: 20 16 42;
+        --purple-950: 224 218 253;
+        --accent: 47 95 208;
+        --accent-hover: 62 116 230;
+        --on-accent: 255 255 255;
       }
 
       /*

diff --git a/src/EditMode.jsx b/src/EditMode.jsx
@@ -322,7 +322,7 @@ export default function EditMode() {
       <>
         <EditStyles />
         <button type="button" onClick={() => setOn(true)} title="Edit the wording and look of this page"
-          className="fixed bottom-4 right-4 z-[60] px-3.5 py-2 rounded-full bg-slate-900 text-white text-xs font-bold shadow-lg flex items-center gap-1.5 cursor-pointer hover:bg-slate-800 transition-colors">
+          data-dev-chrome className="fixed bottom-4 right-4 z-[60] px-3.5 py-2 rounded-full bg-slate-900 text-white text-xs font-bold shadow-lg flex items-center gap-1.5 cursor-pointer hover:bg-slate-800 transition-colors">
           <Pencil className="w-3.5 h-3.5" /> Edit page{total > 0 && <span className="ml-0.5 px-1.5 py-0.5 rounded-full bg-amber-400 text-slate-900 text-[10px]">{total}</span>}
         </button>
       </>
